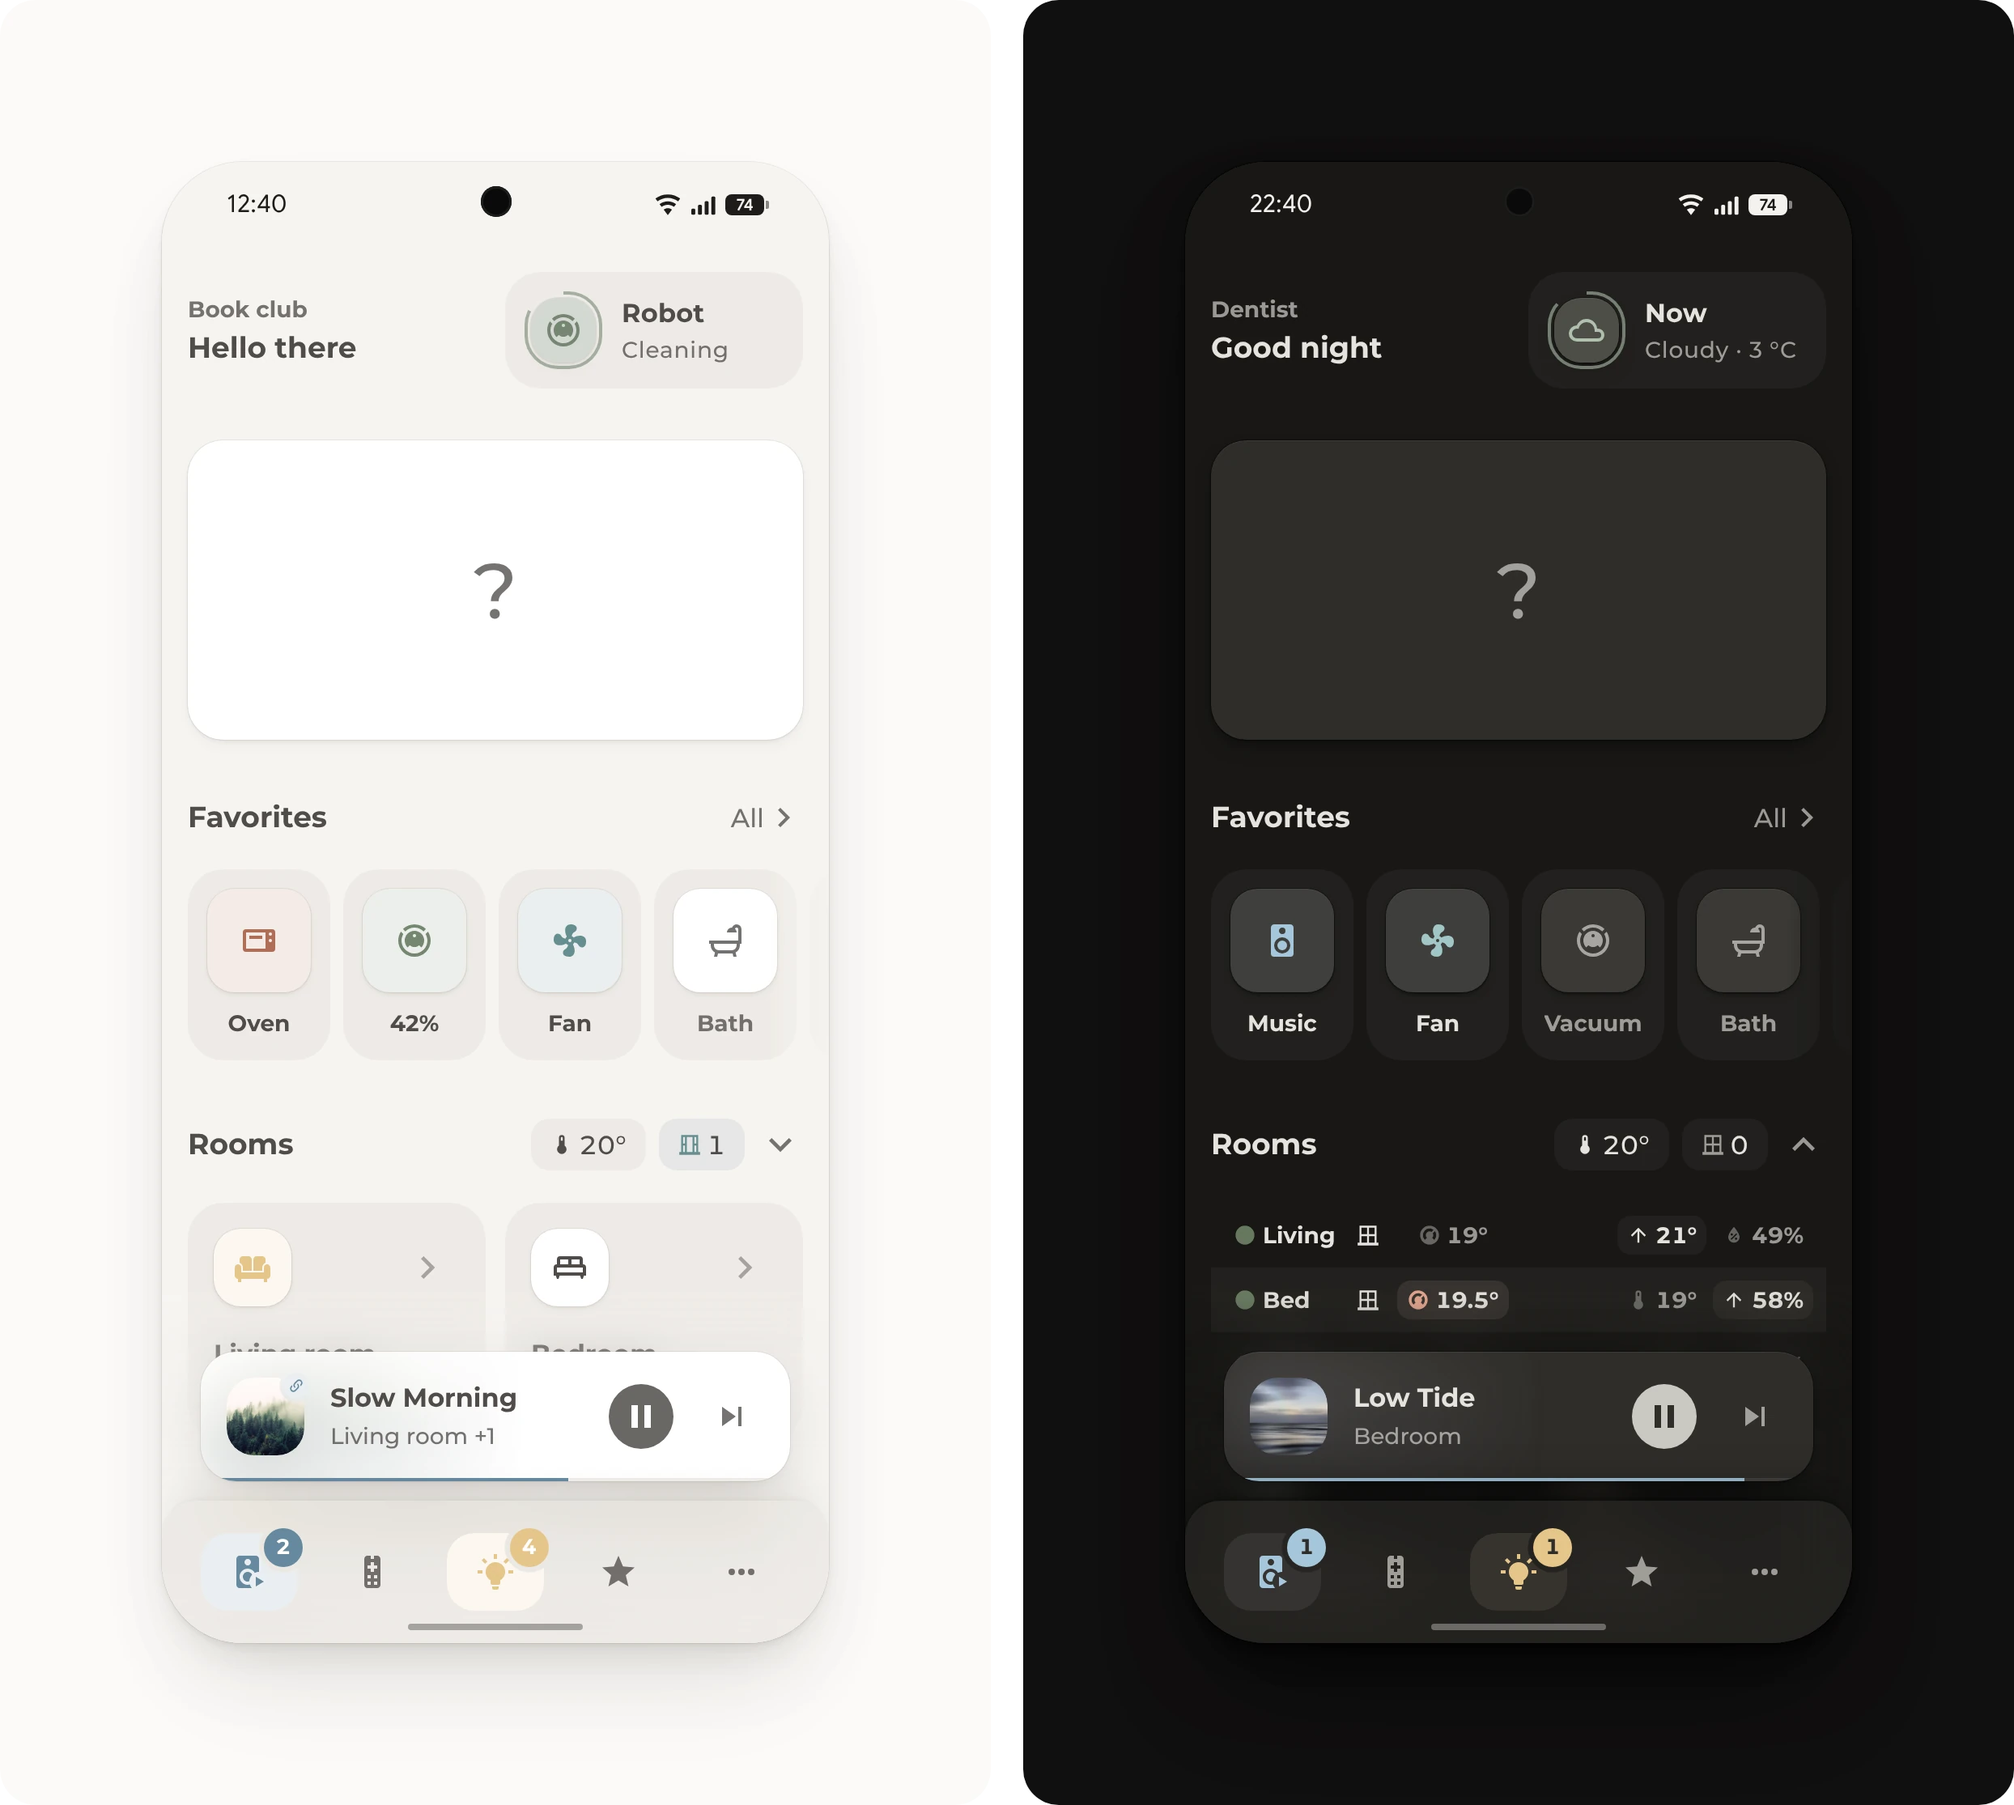
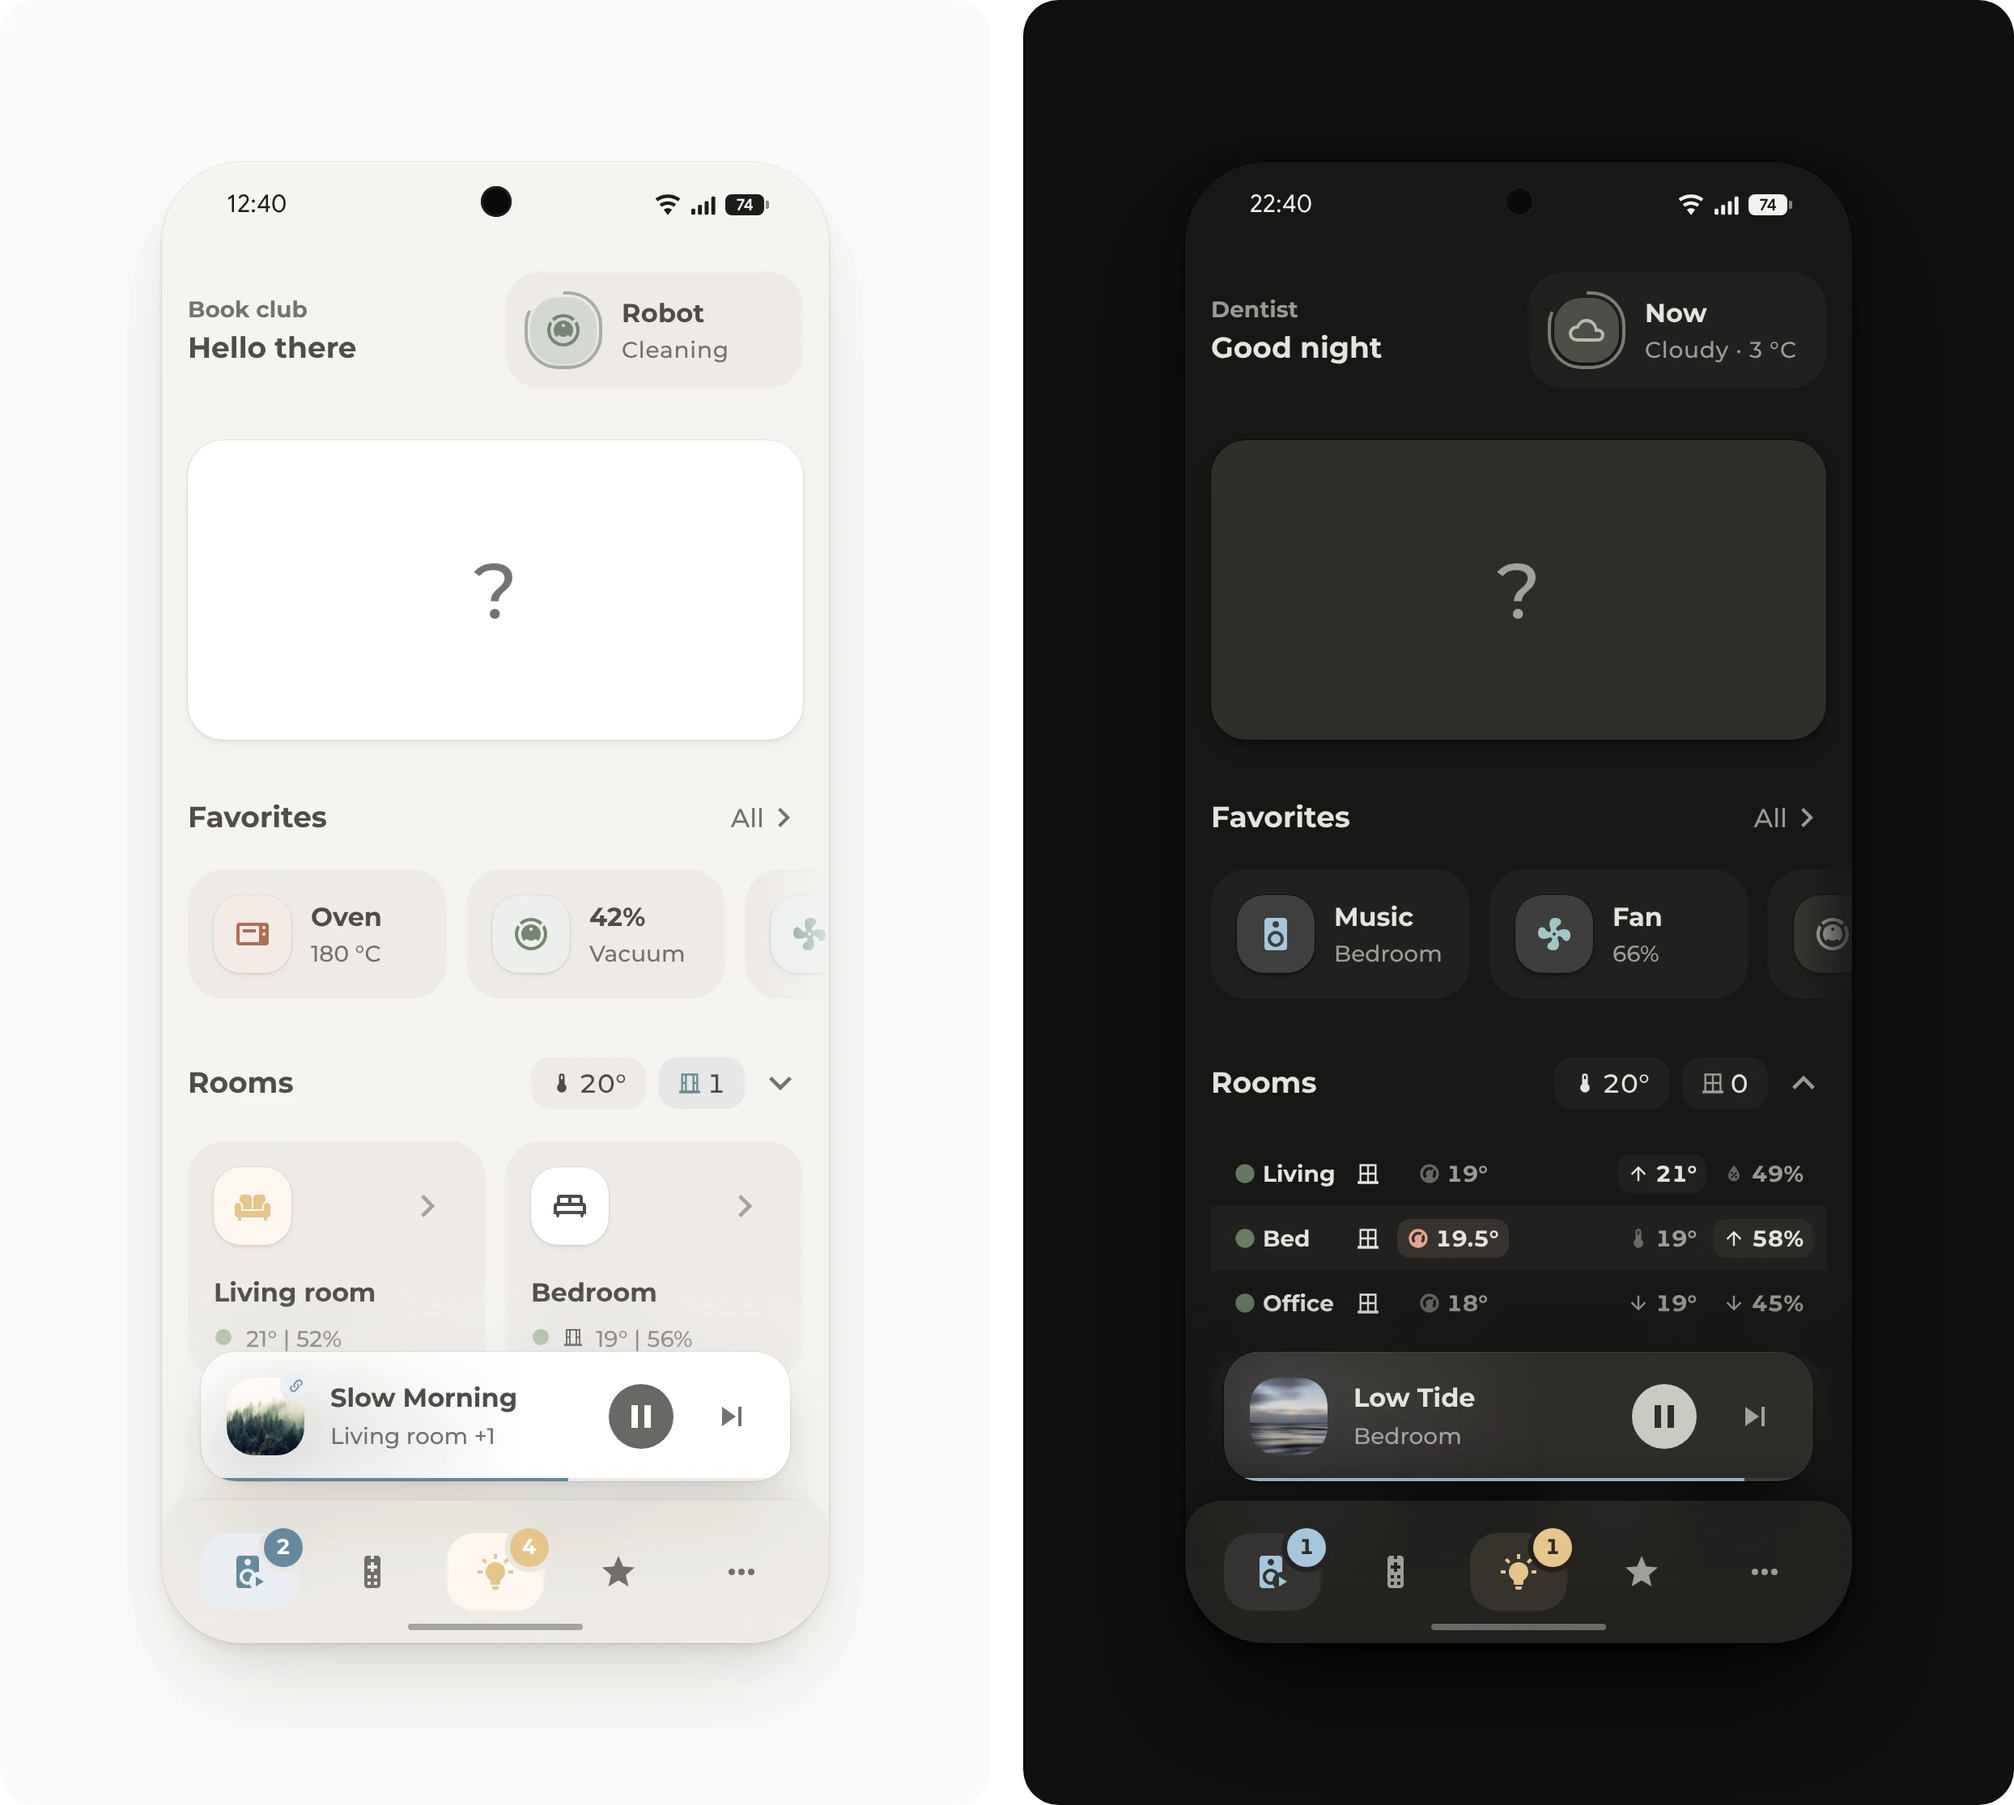
Favorites are tiles in one row that scrolls, or a grid for a larger screen

diff --git a/dashboard/favorites/README.md b/dashboard/favorites/README.md
@@ -1,22 +1,20 @@
 # Favorites
 
-<img width="800" alt="Favorites as a row of boxes that scrolls sideways, in light and dark mode" src="https://raw.githubusercontent.com/hazymorning/origami/next/images/v3/favorites.webp">
+<img width="800" alt="Favorites as tiles in one row that scrolls sideways, in light and dark mode" src="https://raw.githubusercontent.com/hazymorning/origami/next/images/v3/favorites.webp">
 
-<img width="800" alt="Favorites as a grid of tiles with a state line under each name, in light and dark mode" src="https://raw.githubusercontent.com/hazymorning/origami/next/images/v3/favorites-tiles.webp">
+<img width="800" alt="Favorites as a grid of tiles, in light and dark mode" src="https://raw.githubusercontent.com/hazymorning/origami/next/images/v3/favorites-grid.webp">
 
-Favorites for whatever matters right now, like a running vacuum or tonight's dinner. Most of them only show up when they're needed. They come in two versions with the same favorites, and which one fits depends on the screen:
-
-- [`row.yaml`](row.yaml): a row of boxes with an icon and a short name, which scrolls sideways when they don't fit. It takes little room, so it suits a phone.
-- [`tiles.yaml`](tiles.yaml): a grid of tiles with a state line under each name. It shows more at a glance, so it suits a larger screen, such as a tablet on the wall.
+Favorites for whatever matters right now, like a running vacuum or tonight's dinner. Most of them only show up when they're needed. The tiles stand in one row that scrolls sideways, which takes little room on a phone, or in a grid that shows them all at once, which suits a larger screen, such as a tablet on the wall.
 
 ## Requirements
 
-- [Get started](../../README.md#get-started), with the modules Base and Header, and Button for the row or Tiles for the tiles
+- [Get started](../../README.md#get-started), with the modules Base, Header and Tiles
 
 ## Setup
 
-1. Pick the row or the tiles. In its file, keep the favorites that fit, delete the others and change their entities. A comment above each favorite says when it shows. To add one, copy a favorite and change its entity and its visibility conditions.
-2. Add [`header.yaml`](header.yaml) and then the file of the row or the tiles to the dashboard, as described under [Get started](../../README.md#get-started).
+1. In [`tiles.yaml`](tiles.yaml), keep the favorites that fit, delete the others and change their entities. A comment above each favorite says when it shows. To add one, copy a favorite and change its entity and its visibility conditions.
+2. For the grid, delete the two lines with `scroll`.
+3. Add [`header.yaml`](header.yaml) and then `tiles.yaml` to the dashboard, as described under [Get started](../../README.md#get-started).
 
 ## Optional
 
@@ -24,14 +22,14 @@ Favorites for whatever matters right now, like a running vacuum or tonight's din
 
 ## Entities
 
-All favorites are examples from one home, the same in both versions.
+All favorites are examples from one home.
 
 | Favorite | Entities | Shows |
 | --- | --- | --- |
 | Oven | `sensor.oven` | While the oven is on, always first |
 | Vacuum | `vacuum.robot`, `sensor.robot_cleaning_progress` | Always. While it cleans, it moves to the front and shows its progress. |
 | Fan | `fan.bedroom`, `sensor.living_room_temperature`, `sensor.bedroom_temperature` | While the fan runs or a room is above 24° |
-| Dinner | `sensor.dinner` | From 14:00 to 21:00, with the photo from its `recipe.image` attribute, such as from [Tandoor](https://tandoor.dev) |
+| Cooking | `sensor.dinner` | From 14:00 to 21:00, with the photo from its `recipe.image` attribute, such as from [Tandoor](https://tandoor.dev) |
 | Music | `media_player.bedroom` | From 22:00 to 4:00 |
 | Bath | `input_boolean.bath_time`, `input_datetime.bath_time_end` | From 11:00 to 23:00 and while it runs, with the minutes left |
 | Printer | `switch.printer`, `input_datetime.printer_end` | Always, with the minutes left while it prints |

diff --git a/CHANGELOG.md b/CHANGELOG.md
@@ -154,7 +154,7 @@ These changes are in the `next` branch and come with the next release.
 - The climate table uses the Table module.
 - The pop-ups no longer set `shadow_opacity`, because Popup gives every pop-up the theme's shadow.
 - The navbar follows the rules of the Bubble cards. A line along the bottom of the now playing card shows how far the track has played.
-- The favorites come in two versions with the same favorites: a row of boxes that scrolls sideways, each with its icon and a short name, like the scenes in the lights pop-up, and a grid of tiles for a larger screen. The README shows both.
+- The favorites are tiles in one row that scrolls sideways, or in a grid for a larger screen. The README shows both.
 - The lights pop-up shows how many lamps are on and since when. Each scene shows its colors in a rounded square, with the theme's corners, and its brightness under its name, and a small dot before its brightness marks the active scene.
 - The weather card shows the forecast for the week and a two-story house whose rooms light up and show their temperature. Rain and snow fall in front of the house, and its images load from the repository, so a home needs no files of its own.
 

diff --git a/README.md b/README.md
@@ -107,7 +107,7 @@ The start page, from the greeting down to the navigation bar:
 
 - **[Greeting and notifications](dashboard/greeting/).** The next event and what needs attention. Needs the Origami Notifications card.
 - **[Weather](dashboard/weather/).** The week's weather, beside a house whose rooms light up with the home's lights. Needs the Origami Weather card.
-- **[Favorites](dashboard/favorites/).** Shortcuts that come and go with what's happening, as a row for a phone or as tiles for a larger screen.
+- **[Favorites](dashboard/favorites/).** Shortcuts that come and go with what's happening, as a row for a phone or a grid for a larger screen.
 - **[Rooms](dashboard/rooms/).** Each room's climate and lights at a glance.
 - **[Climate table](dashboard/climate-table/).** Every room's climate in one table.
 - **[Navigation bar](dashboard/navigation-bar/).** The most used pop-ups within thumb's reach. Needs Navbar Card.
